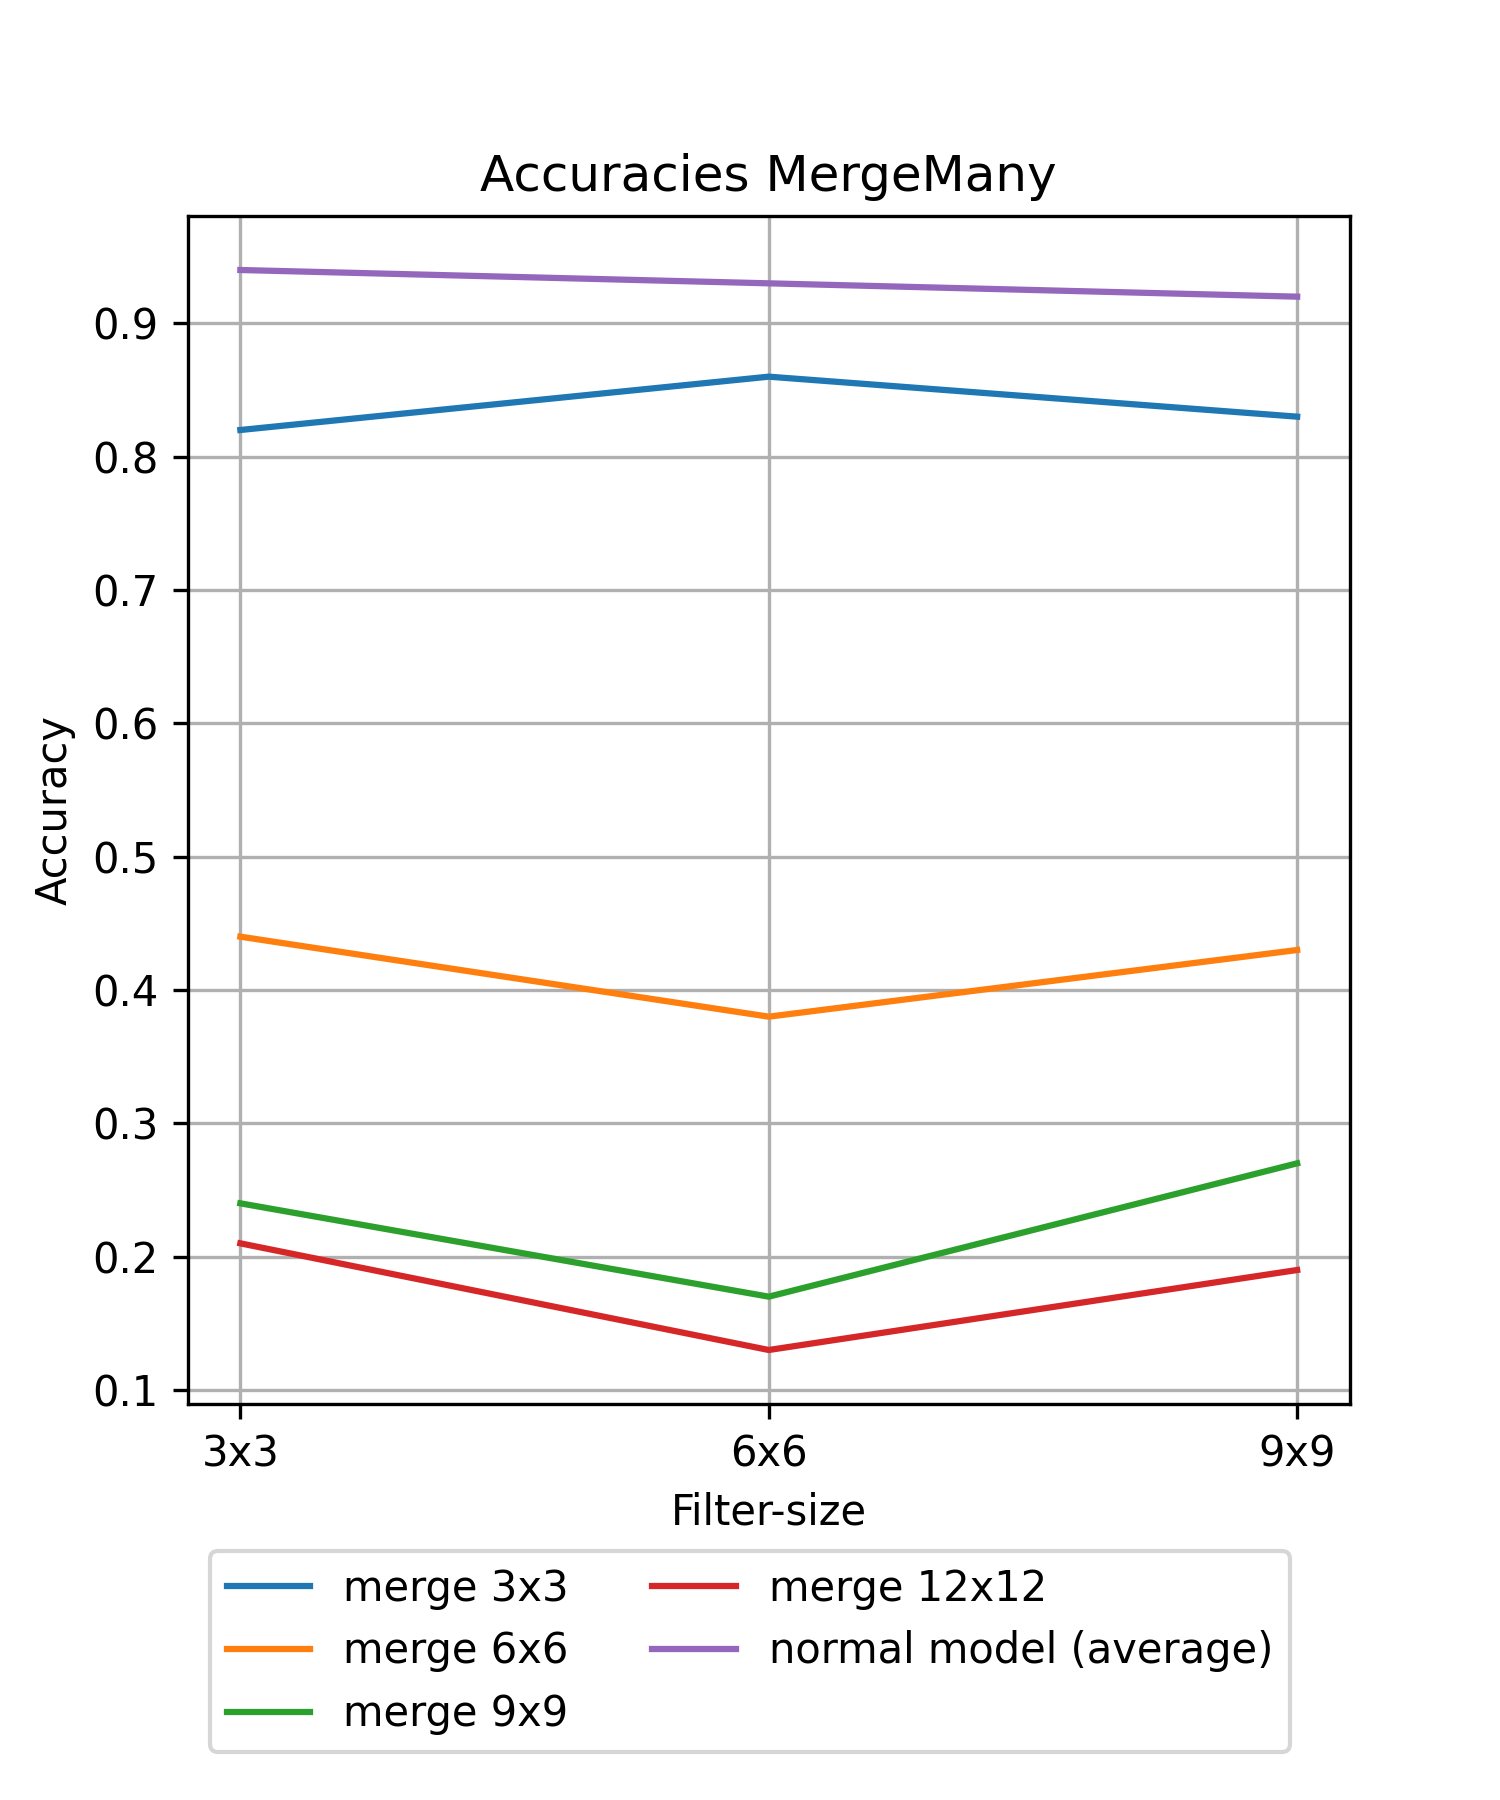
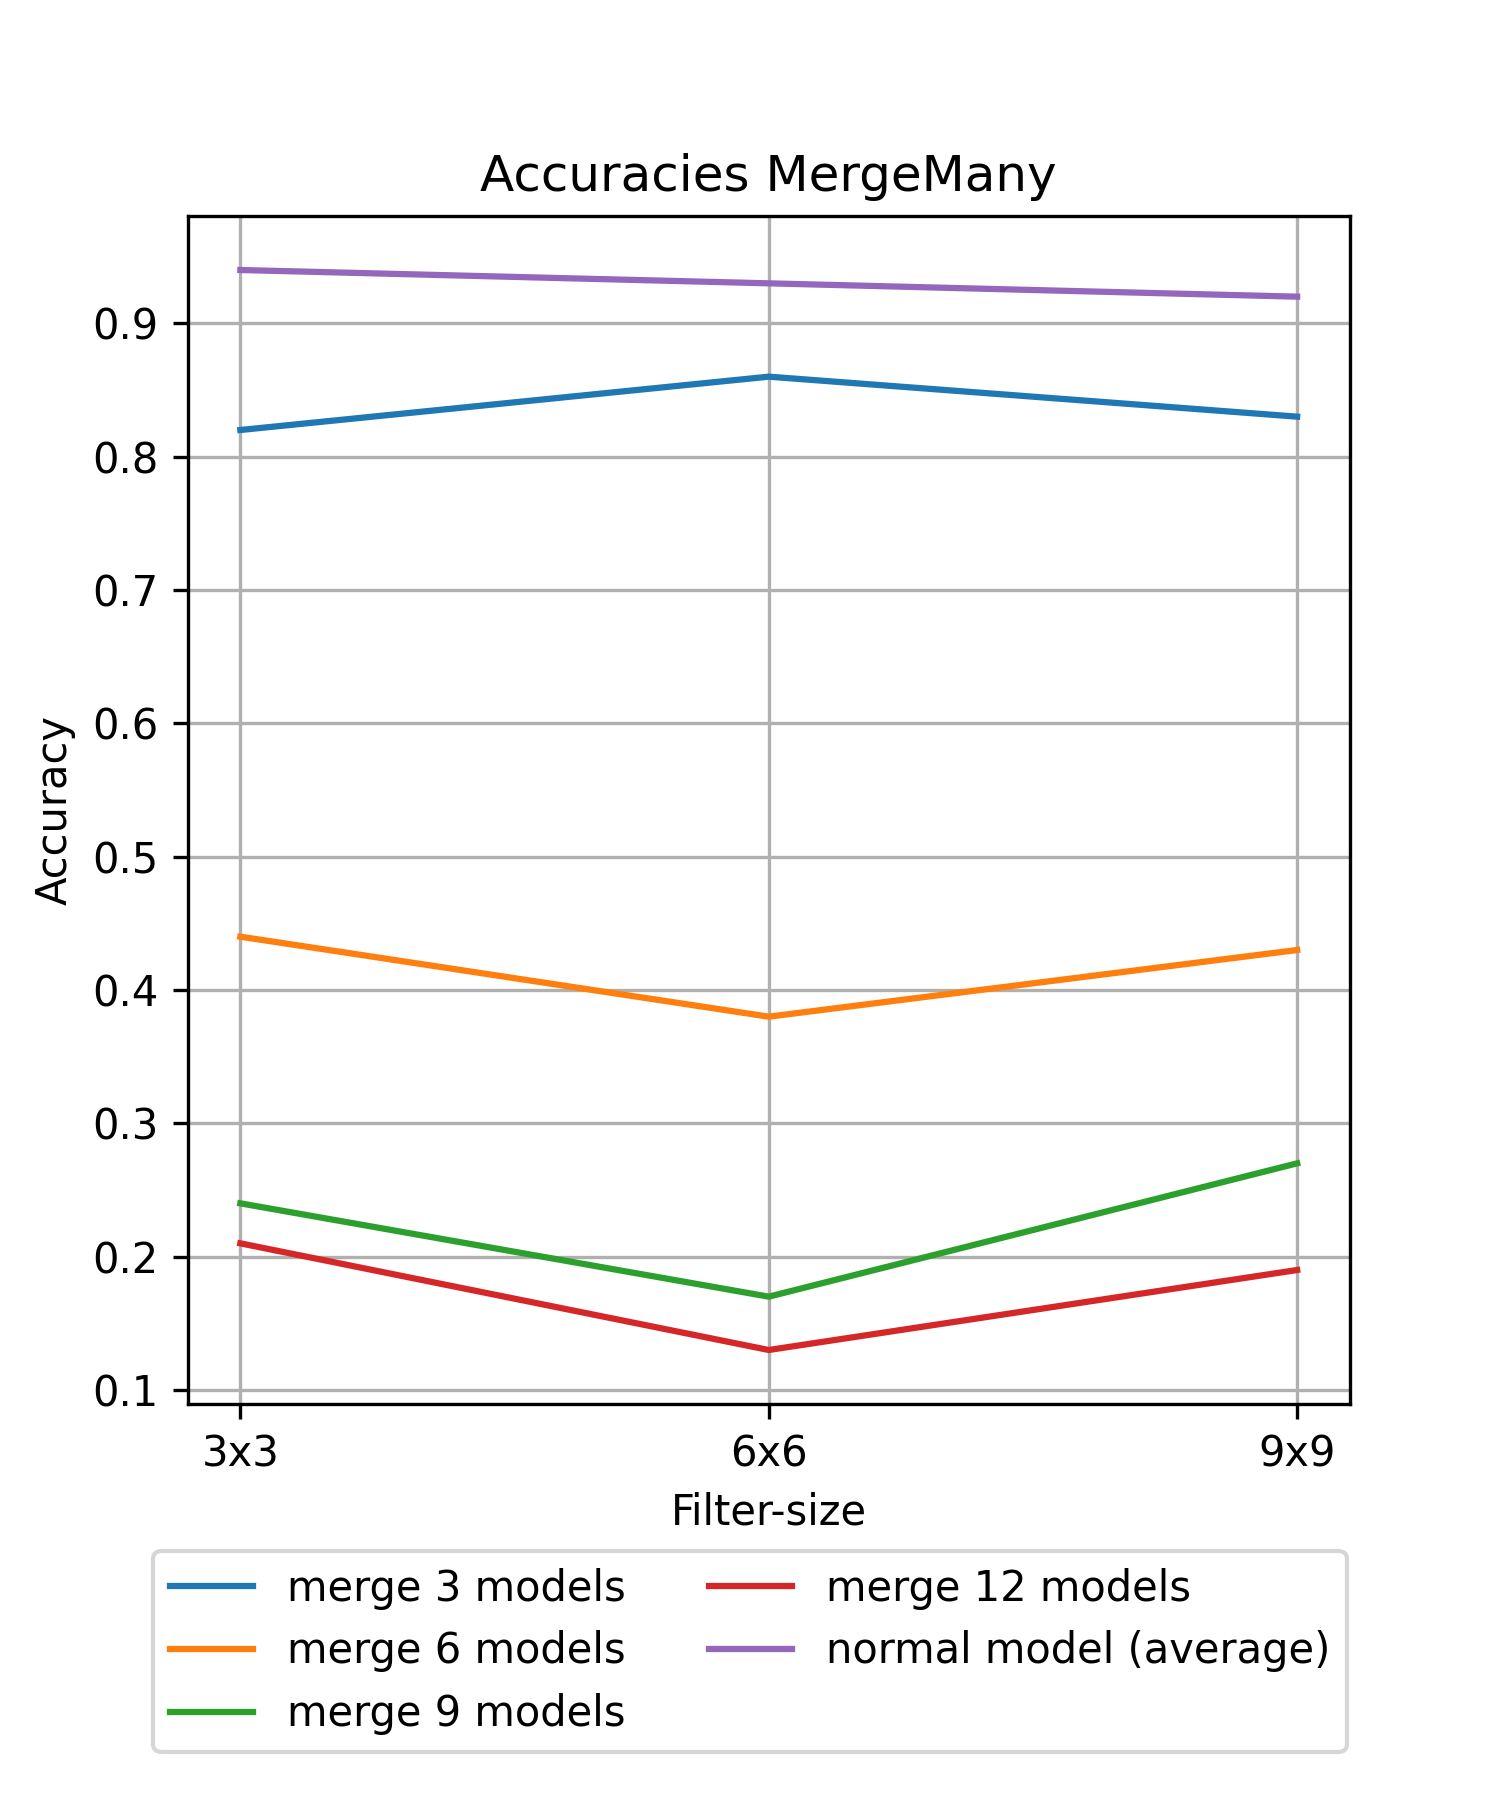
Fix plots for merge many

Changed region(s): [[0.184, 0.8711, 0.46, 0.9644], [0.4907, 0.8711, 0.8893, 0.9333], [0.092, 0.8711, 0.1533, 0.9644]]

diff --git a/hlb-CIFAR10/plot_results.py b/hlb-CIFAR10/plot_results.py
@@ -176,10 +176,10 @@ def plot_merge_many_losses() -> None:
     ax.set_ylabel("Loss")
     ax.grid()
     ax.plot(losses, label="normal model (average)")
-    ax.plot(losses_merge_3, label="merge 3x3")
-    ax.plot(losses_merge_6, label="merge 6x6")
-    ax.plot(losses_merge_9, label="merge 9x9")
-    ax.plot(losses_merge_12, label="merge 12x12")
+    ax.plot(losses_merge_3, label="merge 3 models")
+    ax.plot(losses_merge_6, label="merge 6 models")
+    ax.plot(losses_merge_9, label="merge 9 models")
+    ax.plot(losses_merge_12, label="merge 12 models")
 
     fig.legend(
         loc='upper center',
@@ -209,10 +209,10 @@ def plot_merge_many_accuracies() -> None:
     ax.set_xticks([0, 1, 2], ["3x3", "6x6", "9x9"])
     ax.set_ylabel("Accuracy")
     ax.grid()
-    ax.plot(accuracies_merge_3, label="merge 3x3")
-    ax.plot(accuracies_merge_6, label="merge 6x6")
-    ax.plot(accuracies_merge_9, label="merge 9x9")
-    ax.plot(accuracies_merge_12, label="merge 12x12")
+    ax.plot(accuracies_merge_3, label="merge 3 models")
+    ax.plot(accuracies_merge_6, label="merge 6 models")
+    ax.plot(accuracies_merge_9, label="merge 9 models")
+    ax.plot(accuracies_merge_12, label="merge 12 models")
     ax.plot(accuracies, label="normal model (average)")
 
     fig.legend(

diff --git a/hlb-CIFAR10/RESULTS.md b/hlb-CIFAR10/RESULTS.md
@@ -181,7 +181,7 @@ Clearly, `MergeMany` significantly reduces performance instead of improving it
 
 And to be clear, the more models are merged, the *worse* performance becomes.
 
-In the paper, a MLP was used for merging, so that might be another interesting thing to try.
+In the paper, an MLP was used for merging, so that might be another interesting thing to try.
 
 ## Model
 
